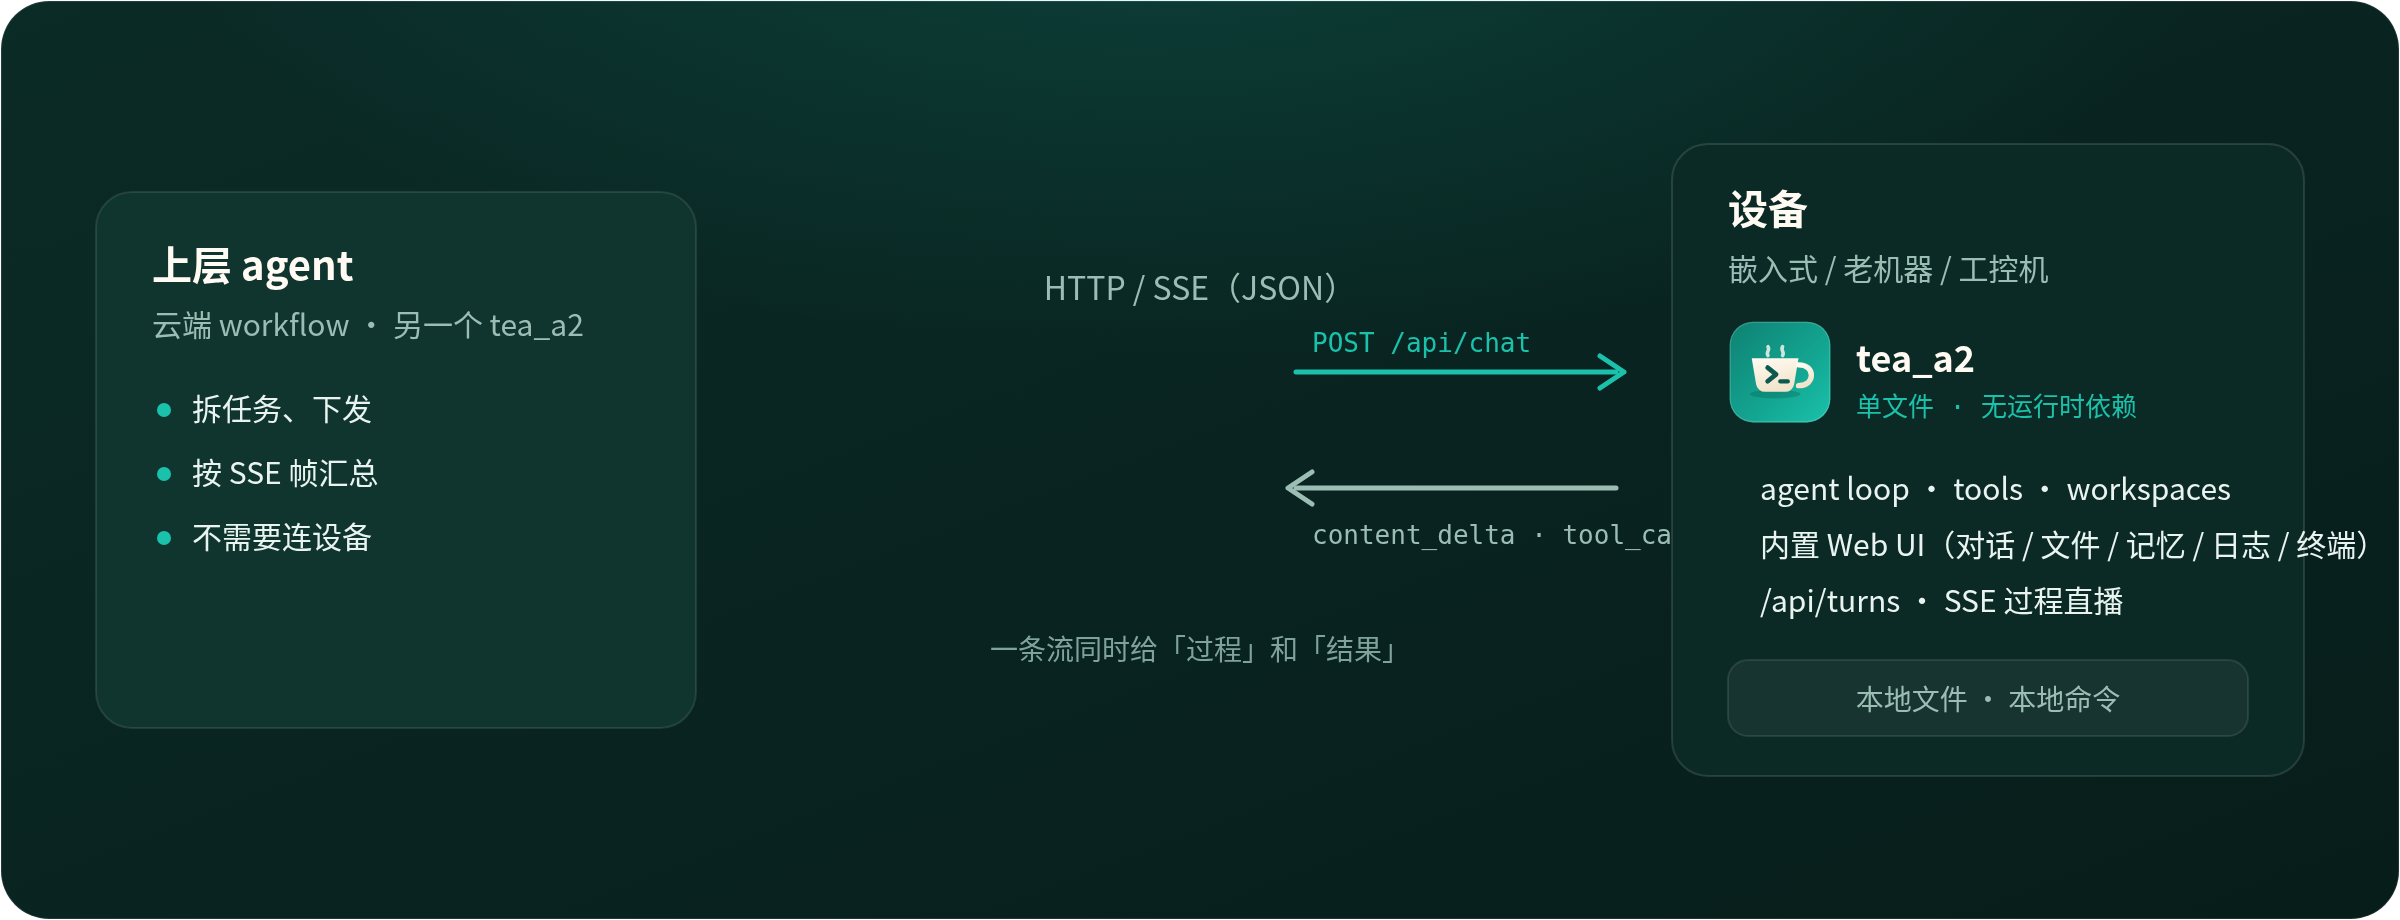
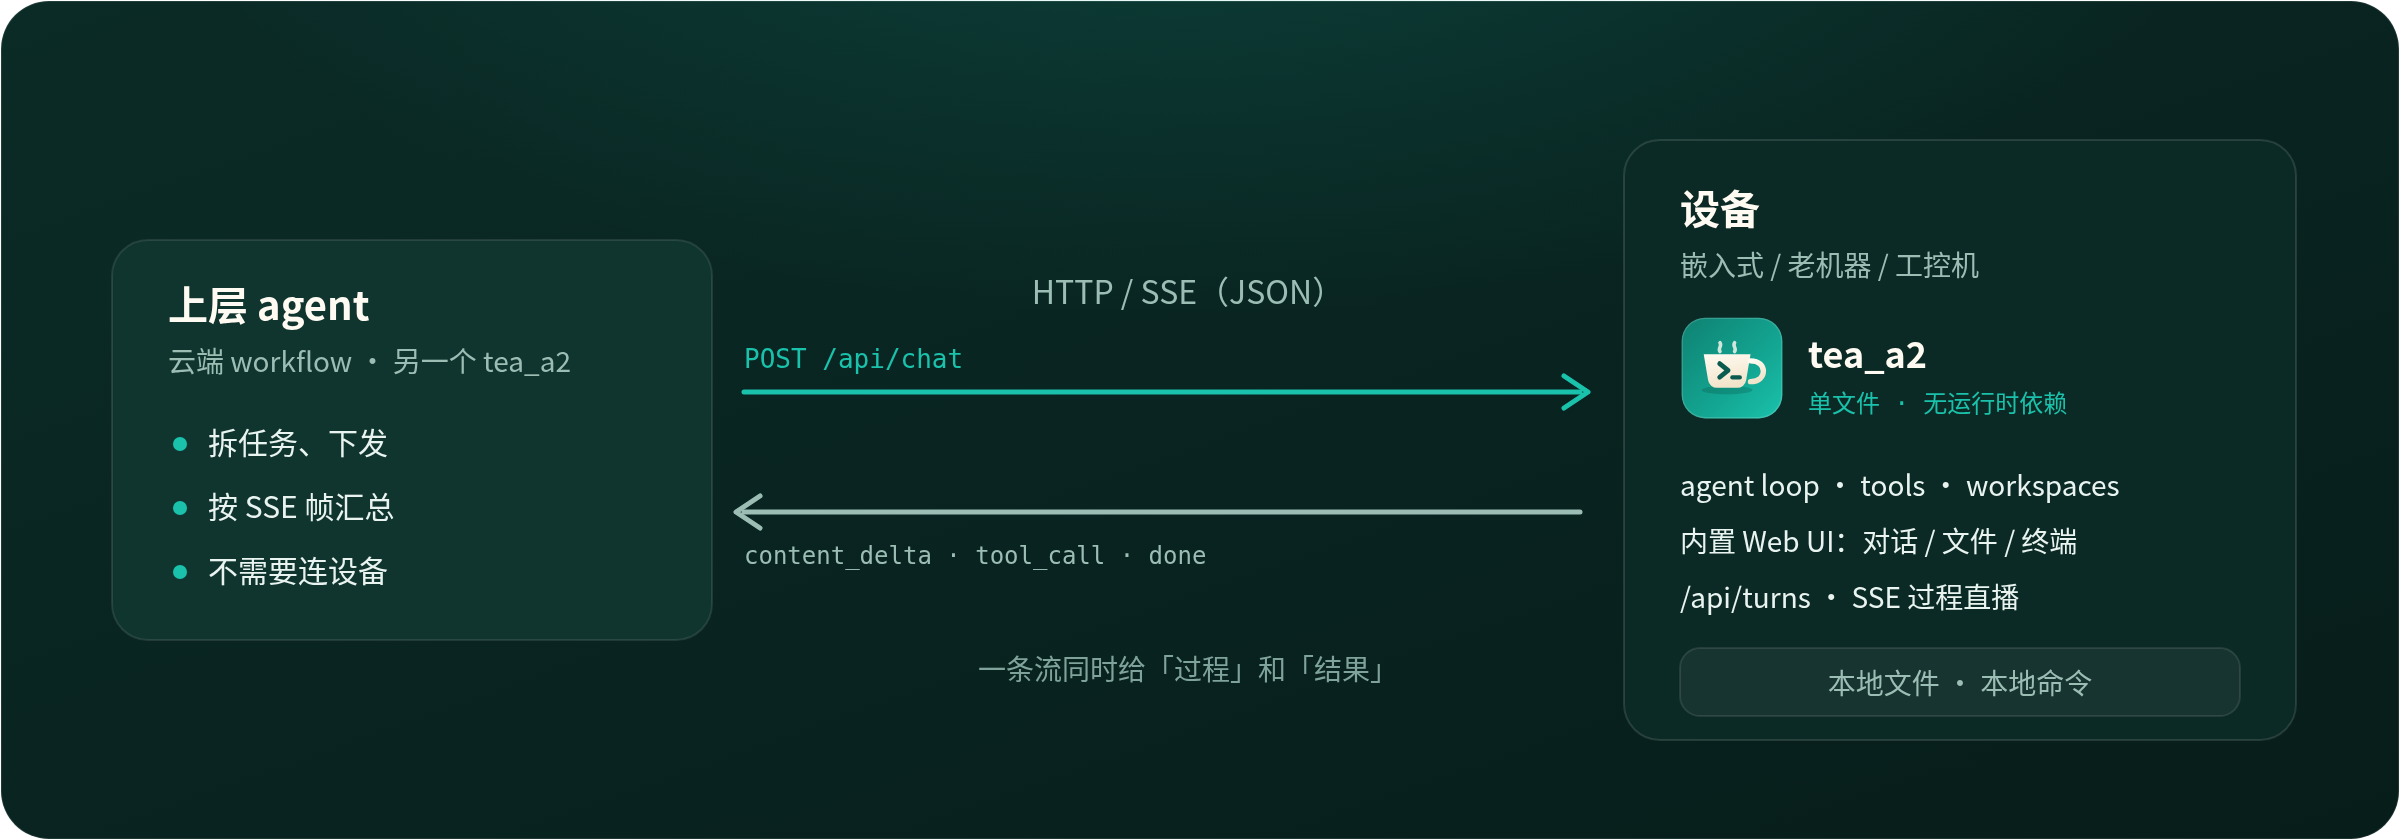
docs(brand): README 顶部横幅 + 架构图（替换 ASCII 图）

diff --git a/README.md b/README.md
@@ -6,6 +6,12 @@
 
 把大模型 agent 的「手和脚」放到设备上;
 
+<picture>
+  <source type="image/svg+xml" srcset="docs/images/brand/hero.svg">
+  <img src="docs/images/brand/hero.png" width="1200"
+       alt="tea_a2：一个自包含的 C++ agent 运行时——一个二进制、本地 HTTP/SSE，把大模型 agent 的手和脚放到设备上。右侧示意一节终端：tea_agent --workspace .、POST /api/chat、toolkit_exec ls -la。">
+</picture>
+
 <br/>
 
 <a href="https://github.com/sunkwei/tea_a2"><img alt="repo" src="https://img.shields.io/badge/repo-sunkwei%2Ftea__a2-181717.svg"></a>
@@ -24,20 +30,15 @@
 嵌入式设备上通常跑不了通用 agent，「在设备上干活」需要的是本地能力：执行命令、读写文件、
 记住上下文。`tea_a2` 就是这部分能力的最小实现：
 
-```
-┌──────────────────────┐        HTTP / SSE (JSON)        ┌───────────────────────────┐
-│  Remote brain        │  ───────────────────────────▶  │  Embedded device          │
-│  (LLM agent /        │                                 │  ┌─────────────────────┐  │
-│   orchestrator /     │   POST /api/chat                │  │ tea_a2 (single exe) │  │
-│   云端 workflow)     │   ◀─── content_delta / tools ── │  │  · agent loop       │  │
-└──────────────────────┘                                 │  │  · tools            │  │
-                                                         │  │  · workspaces       │  │
-                                                         │  │  · built-in Web UI  │  │
-                                                         │  └─────────┬───────────┘  │
-                                                         │            │              │
-                                                         │     本地文件 / 本地命令    │
-                                                         └───────────────────────────┘
-```
+<p align="center">
+  <picture>
+    <source type="image/svg+xml" srcset="docs/images/brand/architecture.svg">
+    <img src="docs/images/brand/architecture.png" width="1200"
+         alt="架构：上层 agent（云端 workflow，或另一个 tea_a2）用 POST /api/chat 下发任务，用 SSE（content_delta / tool_call / done）收回过程与结果；设备上跑一个 tea_a2 二进制，内含 agent loop、工具、工作区与内置 Web UI，工具落到本地文件与本地命令；不需要安装运行时。">
+  </picture>
+</p>
+
+一条流同时给「过程」和「结果」——上层不用轮询，设备也不用暴露文件系统。
 
 | 模式 | 说明 |
 | --- | --- |
